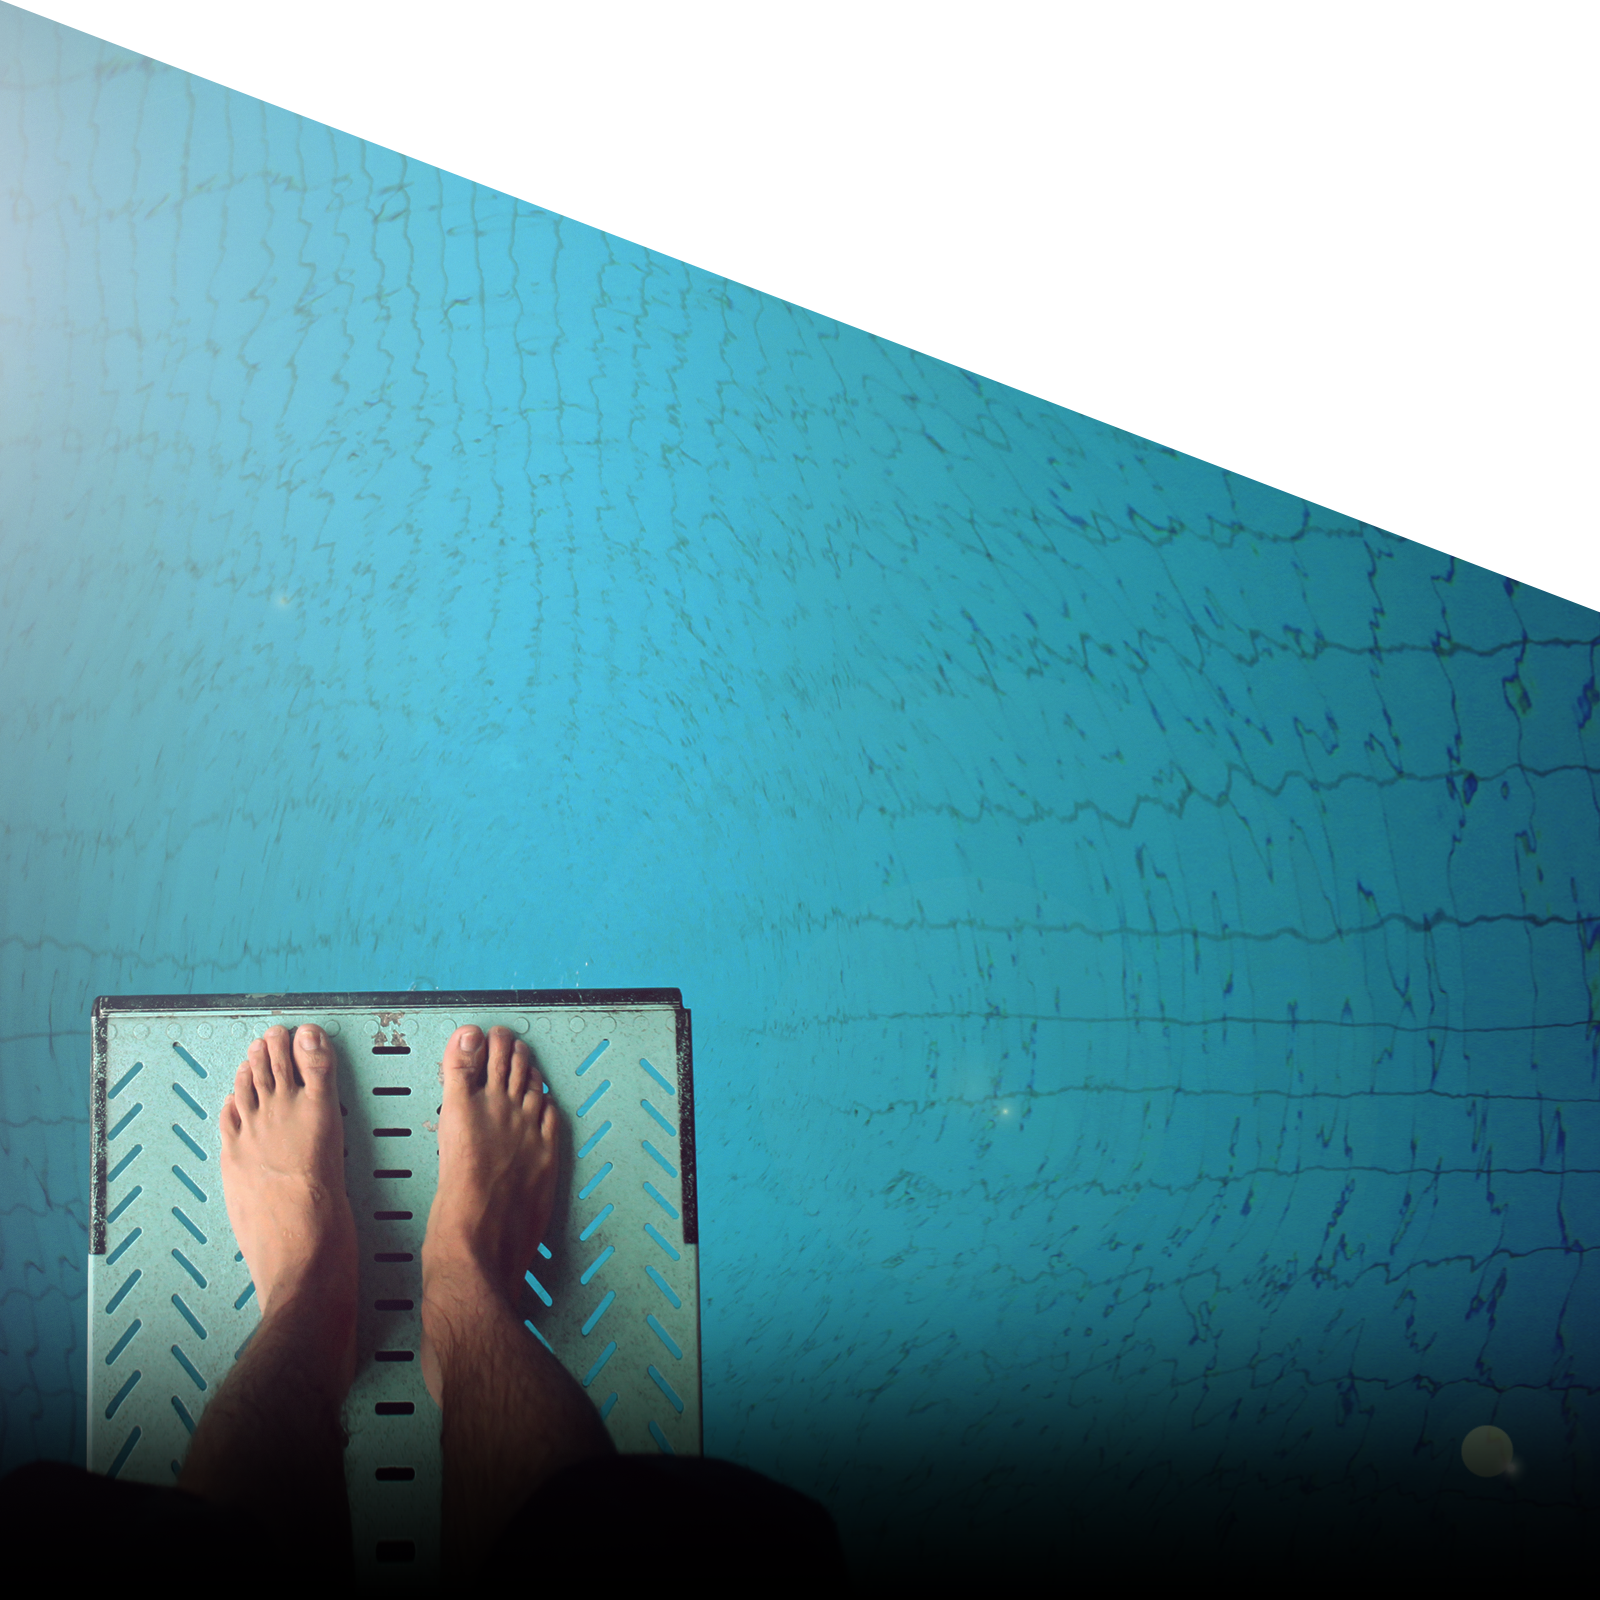
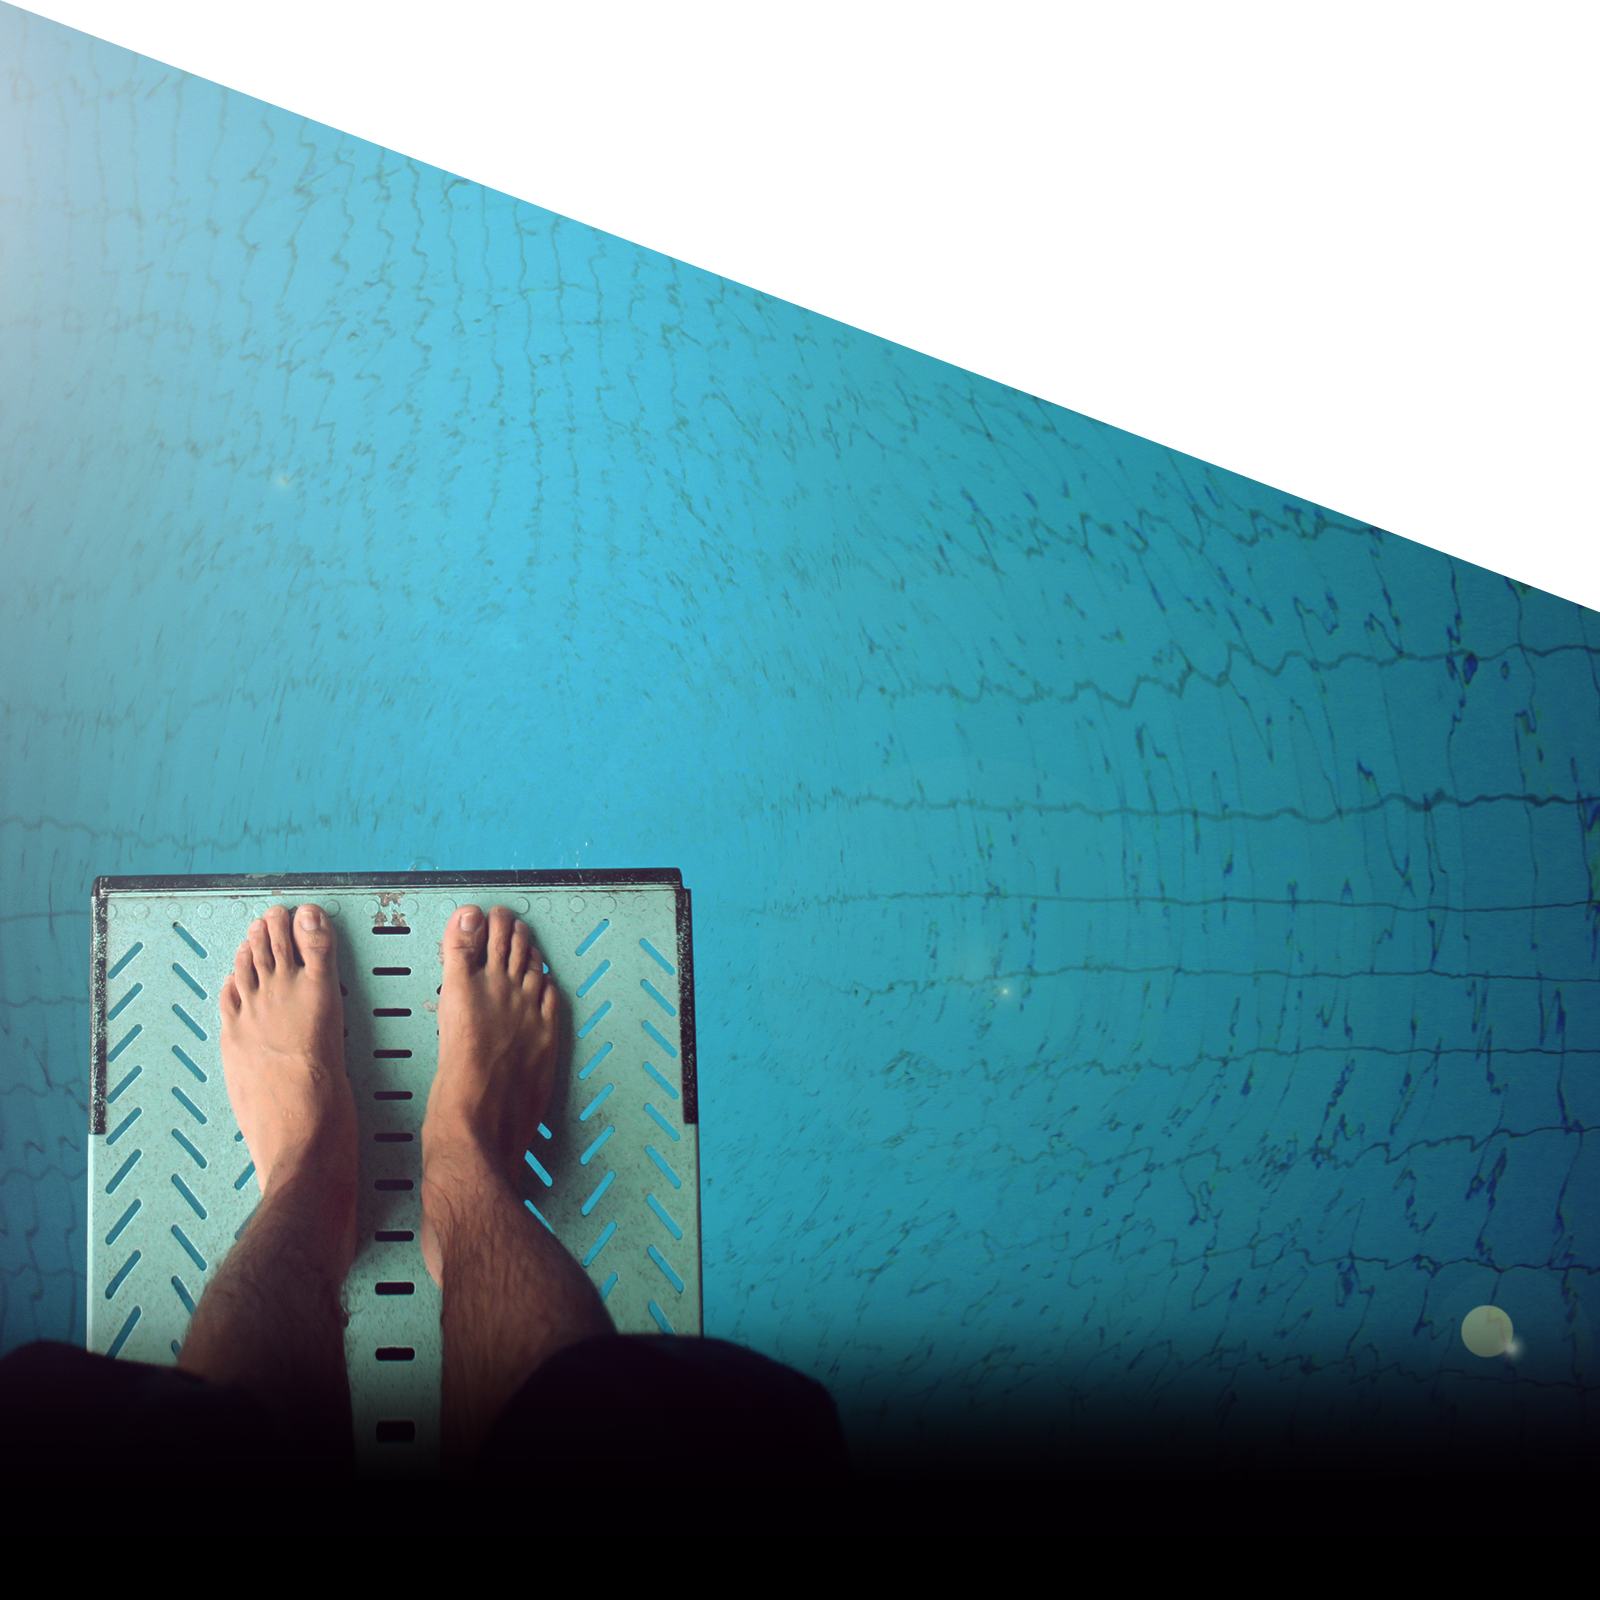
-Fixed white triangle -Updated image #5

diff --git a/css/hpit.css b/css/hpit.css
@@ -2059,7 +2059,9 @@ only screen and (max-device-width : 1080px) and (-webkit-device-pixel-ratio: 1.5
         border-bottom: 1px solid #363636 !important
     }
 
-    .hero{  height:600px;    }
+    .hero{      height:600px;   }
+
+    .whiteAngle{height:500px;   }
 }
 
 /* less than 640px wide */
@@ -2467,7 +2469,7 @@ only screen and (max-device-width : 1080px) and (-webkit-device-pixel-ratio: 1.5
     }
 }
 
-/* between 768px & 1000px wide */
+/* between 768px & 1024px wide */
 @media only screen and (min-width : 768px) and (max-width : 1024px) {
     .hero > div.inner {
         padding-right: 30% !important;
@@ -2487,7 +2489,6 @@ only screen and (max-device-width : 1080px) and (-webkit-device-pixel-ratio: 1.5
     }
     .insight .insightTitle {
         width: 26%;
-        font-size:
     }
     .insight .insightTitle h3 {
         font-size: 36px;
